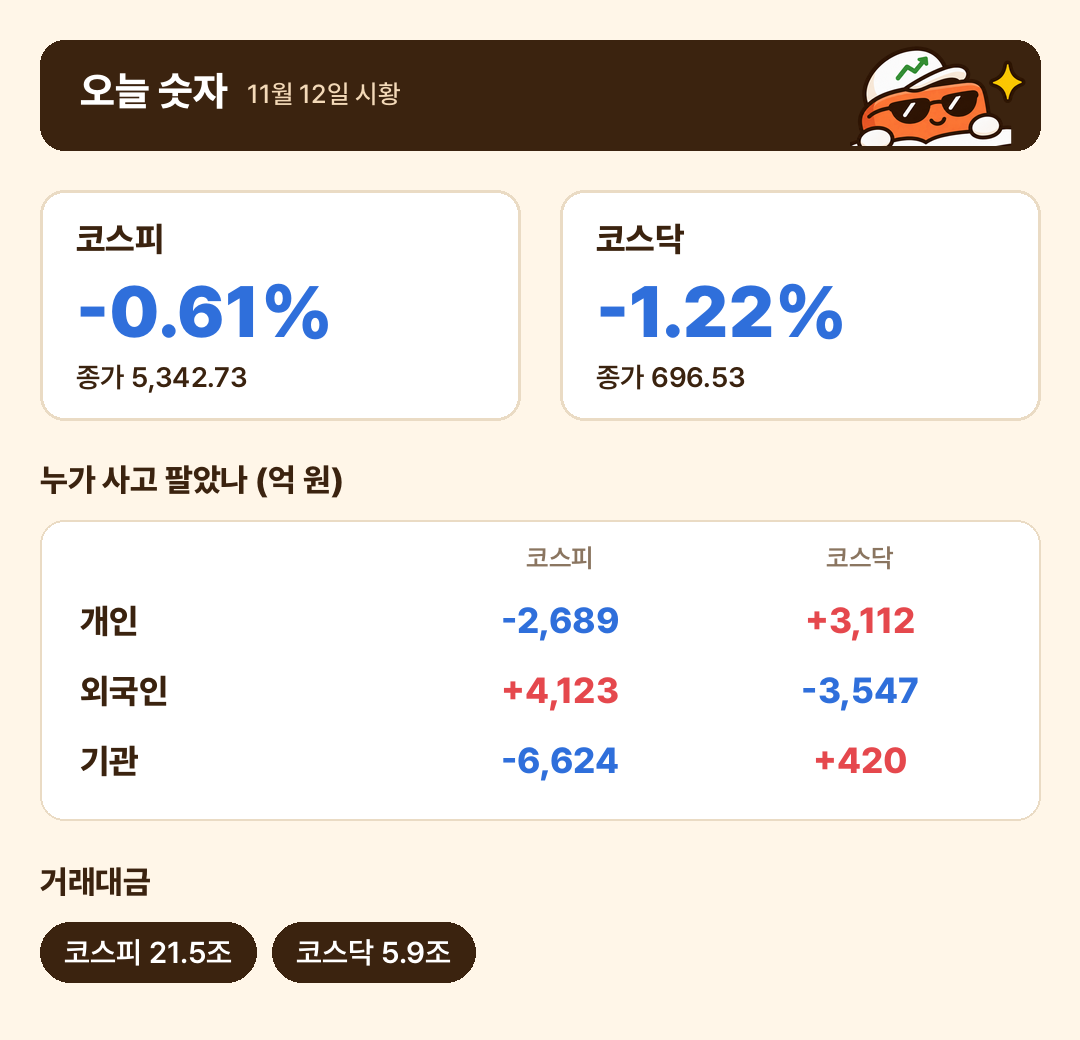
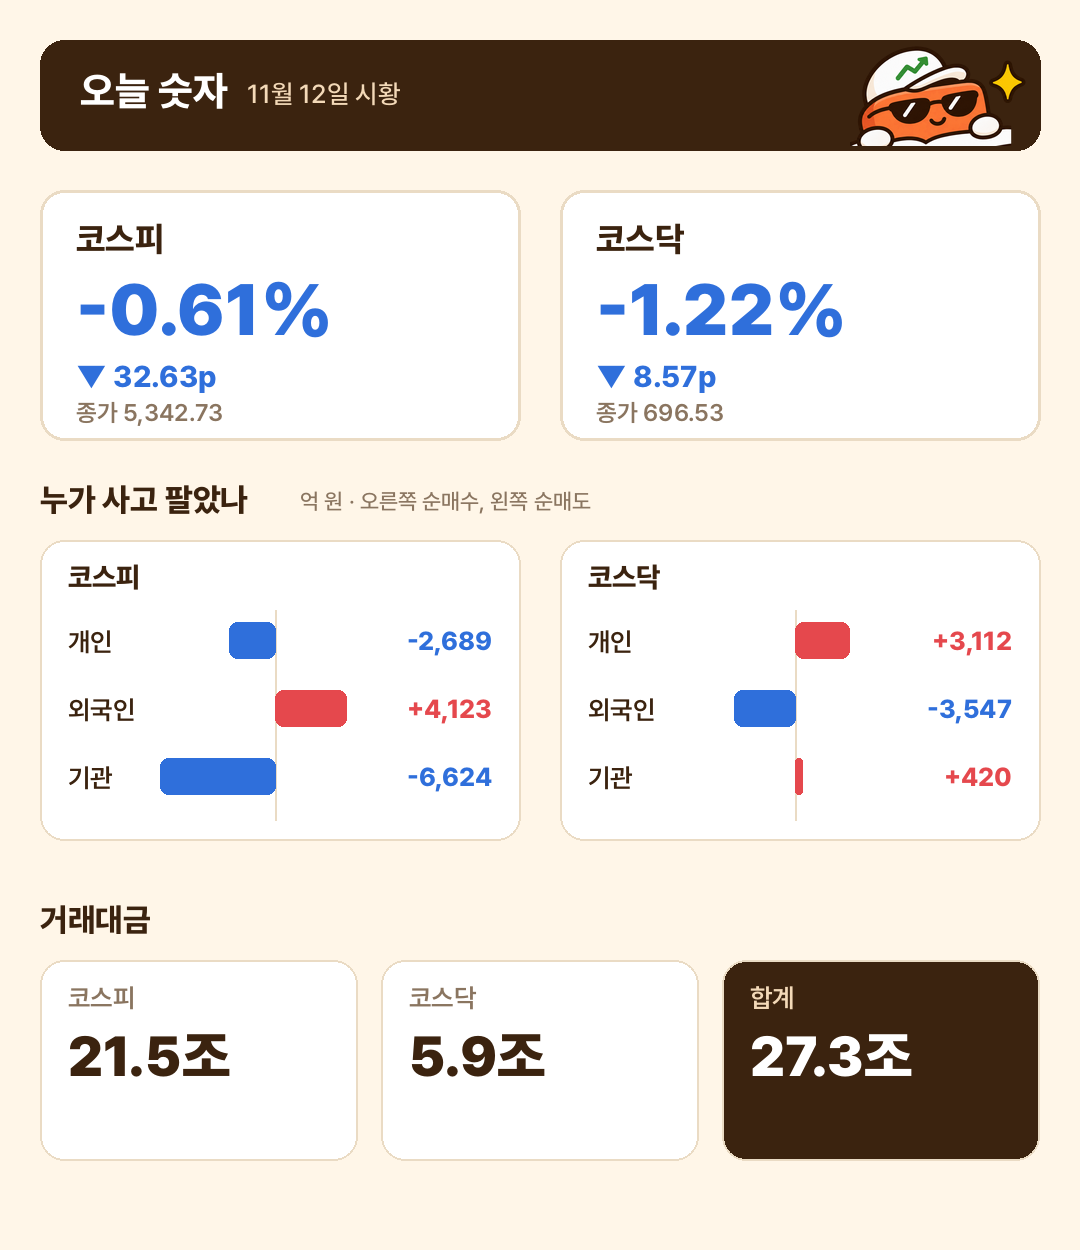
Rework daily numbers card and start storing daily index snapshots
The numbers card now shows index point changes, per-market investor
flow bars with values in their own column, and trading value for each
market plus the total. Naver only serves today's trading value, so
collect_market.py today saves each day under data/market/history and
reads the previous file for the day-over-day change.

diff --git a/scripts/make_market_cards.py b/scripts/make_market_cards.py
@@ -182,52 +182,71 @@ def trend_card(c, out):
     img.convert("RGB").save(f"{out}/card_trend.png")
 
 
+def won(eok):
+    """억 원 → '21.5조' / '8,570억'."""
+    return f"{eok / 10000:.1f}조" if abs(eok) >= 10000 else f"{eok:,.0f}억"
+
+
 def numbers_card(c, out):
-    """데일리: 지수 두 칸 + 투자자별 순매수(억 원) + 거래대금."""
+    """데일리: 지수(등락률·전일 대비 포인트) + 시장별 투자자 순매수 막대 + 거래대금(합계·전일 대비)."""
     t = c["today"]
-    H = 1040
+    H = 1250
     img = Image.new("RGBA", (W, H), BEIGE); d = ImageDraw.Draw(img)
     header(d, img, "오늘 숫자", c["name"], W)
 
     bw, y = (W - 120) // 2, 190
     for i, ix in enumerate(t["indices"]):
         x = 40 + i * (bw + 40)
-        rr(d, (x, y, x + bw, y + 230), 24, fill=WHITE, outline=LINE, width=3)
+        rr(d, (x, y, x + bw, y + 250), 24, fill=WHITE, outline=LINE, width=3)
         d.text((x + 36, y + 28), ix["name"], font=F("ExtraBold", 34), fill=BROWN)
-        d.text((x + 36, y + 78), pct(ix["day"]), font=F("Black", 72), fill=color(ix["day"]))
-        d.text((x + 36, y + 170), f"종가 {ix['close']}", font=F("SemiBold", 28), fill=BROWN)
+        d.text((x + 36, y + 76), pct(ix["day"]), font=F("Black", 72), fill=color(ix["day"]))
+        arrow = "▲" if ix["points"] > 0 else "▼"
+        d.text((x + 36, y + 168), f"{arrow} {abs(ix['points']):,.2f}p", font=F("ExtraBold", 30), fill=color(ix["points"]))
+        d.text((x + 36, y + 208), f"종가 {ix['close']}", font=F("SemiBold", 24), fill=MUTED)
 
-    # 투자자별 순매수: 행은 개인·외국인·기관, 열은 코스피·코스닥
-    y = 460
-    d.text((40, y), "누가 사고 팔았나 (억 원)", font=F("ExtraBold", 32), fill=BROWN)
+    # 투자자별 순매수: 시장마다 가운데 0 기준 막대, 산 쪽 빨강·판 쪽 파랑
+    y = 480
+    d.text((40, y), "누가 사고 팔았나", font=F("ExtraBold", 32), fill=BROWN)
+    d.text((300, y + 8), "억 원 · 오른쪽 순매수, 왼쪽 순매도", font=F("Medium", 22), fill=MUTED)
     y += 60
-    rr(d, (40, y, W - 40, y + 300), 24, fill=WHITE, outline=LINE, width=2)
-    cols = [x["name"] for x in t["indices"]]
-    cx = [560, 860]
-    for j, name in enumerate(cols):
-        tw = d.textlength(name, font=F("SemiBold", 26))
-        d.text((cx[j] - tw / 2, y + 22), name, font=F("SemiBold", 26), fill=MUTED)
-    for k, who in enumerate(("개인", "외국인", "기관")):
-        ry = y + 80 + k * 70
-        d.text((80, ry), who, font=F("ExtraBold", 34), fill=BROWN)
-        for j, name in enumerate(cols):
-            v = t["flows"][name][k]
+    top = max(abs(v) for vals in t["flows"].values() for v in vals)
+    for i, ix in enumerate(t["indices"]):
+        x = 40 + i * (bw + 40)
+        rr(d, (x, y, x + bw, y + 300), 24, fill=WHITE, outline=LINE, width=2)
+        d.text((x + 28, y + 20), ix["name"], font=F("ExtraBold", 28), fill=BROWN)
+        # 이름 | 막대(가운데 0) | 금액 오른쪽 정렬: 숫자가 막대·이름과 겹치지 않게 칸을 나눈다
+        left, right = x + 120, x + bw - 130
+        mid, half = (left + right) // 2, (right - left) // 2
+        d.line((mid, y + 70, mid, y + 280), fill=LINE, width=2)
+        for k, who in enumerate(("개인", "외국인", "기관")):
+            v = t["flows"][ix["name"]][k]
+            ry = y + 78 + k * 68
+            d.text((x + 28, ry + 8), who, font=F("SemiBold", 26), fill=BROWN)
+            L = max(int(half * abs(v) / top), 6)
+            box = (mid, ry + 4, mid + L, ry + 40) if v > 0 else (mid - L, ry + 4, mid, ry + 40)
+            rr(d, box, 8, fill=color(v))
             label = f"{v:+,}"
-            tw = d.textlength(label, font=F("ExtraBold", 36))
-            d.text((cx[j] - tw / 2, ry - 2), label, font=F("ExtraBold", 36), fill=color(v))
+            lf = F("ExtraBold", 26)
+            d.text((x + bw - 28 - d.textlength(label, font=lf), ry + 7), label, font=lf, fill=color(v))
 
-    # 거래대금: 시장별 칩, 전일 대비가 있으면 함께
-    y = 862
+    # 거래대금: 코스피·코스닥·합계, 전일 대비 증감
+    y = 900
     d.text((40, y), "거래대금", font=F("ExtraBold", 32), fill=BROWN)
-    x, y = 40, y + 60
-    for name, value, change in t["value"]:
-        label = f"{name} {value}" + (f" ({change})" if change else "")
-        tw = d.textlength(label, font=F("SemiBold", 30))
-        if x + tw + 48 > W - 40:
-            x, y = 40, y + 72
-        rr(d, (x, y, x + tw + 48, y + 60), 30, fill=BROWN)
-        d.text((x + 24, y + 12), label, font=F("SemiBold", 30), fill=WHITE)
-        x += tw + 64
+    y += 60
+    cells = t["value"]
+    cw = (W - 80 - 24 * (len(cells) - 1)) // len(cells)
+    for i, (name, now, prev) in enumerate(cells):
+        x = 40 + i * (cw + 24)
+        total = name == "합계"
+        rr(d, (x, y, x + cw, y + 200), 24, fill=BROWN if total else WHITE, outline=LINE, width=2)
+        fg = WHITE if total else BROWN
+        d.text((x + 28, y + 22), name, font=F("SemiBold", 26), fill="#F3D9B8" if total else MUTED)
+        d.text((x + 28, y + 62), won(now), font=F("Black", 56), fill=fg)
+        if prev:
+            diff = now - prev
+            line = f"{'▲' if diff > 0 else '▼'} {won(abs(diff))} ({diff / prev * 100:+.0f}%)"
+            d.text((x + 28, y + 146), "전일 대비 " + line, font=F("SemiBold", 22),
+                   fill=fg if total else color(diff))
     img.convert("RGB").save(f"{out}/card_numbers.png")
 
 
